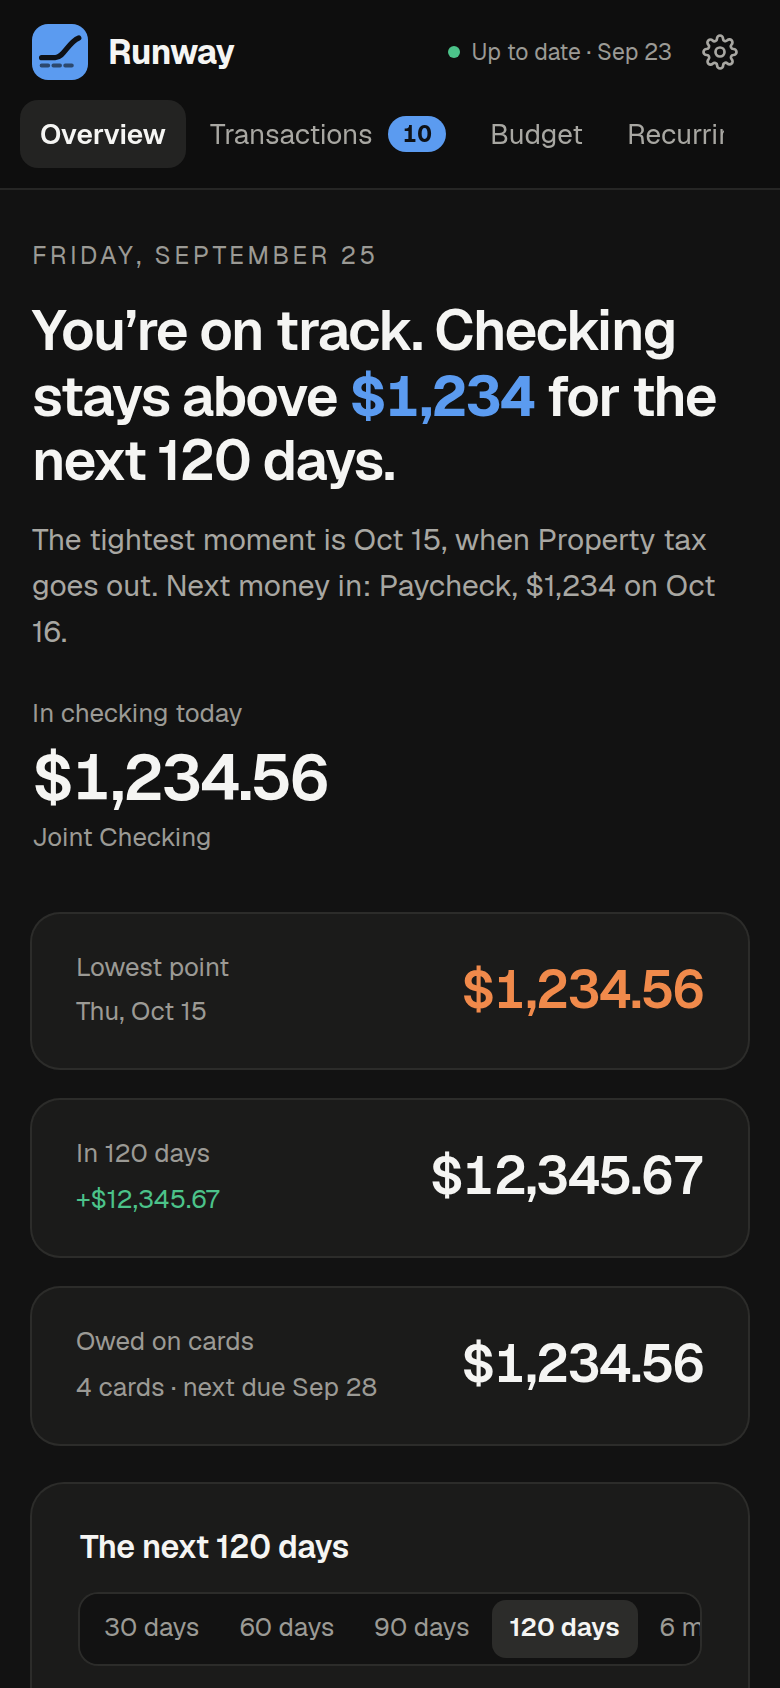
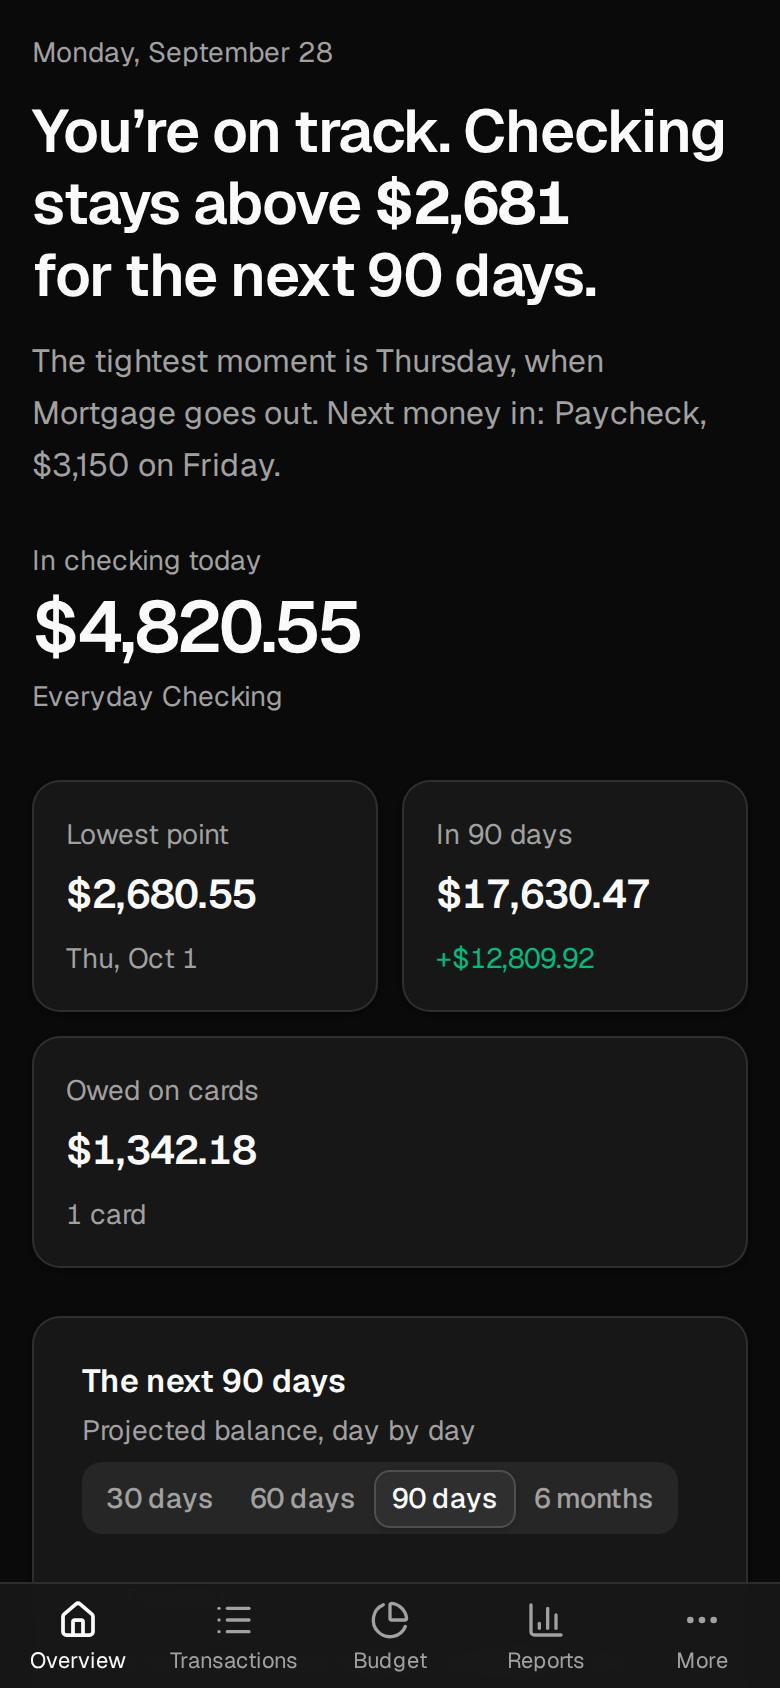
README: fresh screenshots of the current app
Claude-Session: https://claude.ai/code/session_01EsYSGy1d5EnqChoSiKzsUT

Taken from the made-up demo data (run.py demo), so no amounts need hiding: Overview, Transactions, Budget, Reports
and the phone layout. The Investments screenshot, which showed the old app, is gone; the demo has no investments.

diff --git a/README.md b/README.md
@@ -18,7 +18,7 @@
 </p>
 
 <p align="center">
-  <img src="docs/screenshots/overview.png" alt="Runway's Overview page: a headline saying checking stays above $2,084 for the next 120 days, summary tiles, and a projected balance chart" width="900">
+  <img src="docs/screenshots/overview.png" alt="Runway's Overview page: a headline saying checking stays above $2,681 for the next 90 days, summary tiles, and a projected balance chart" width="900">
 </p>
 
 ---
@@ -142,13 +142,15 @@ plain Python with a handful of well-known libraries.
 
 ## Screenshots
 
-| Investments | Where money went |
+| Transactions | Budget |
 |---|---|
-| <img src="docs/screenshots/investments.png" alt="Investments page with value and return charts" width="440"> | <img src="docs/screenshots/reports.png" alt="Reports page with a cash-flow Sankey chart" width="440"> |
+| <img src="docs/screenshots/transactions.png" alt="Transactions grouped by day, each with its merchant, account, category emoji and amount" width="440"> | <img src="docs/screenshots/budget.png" alt="Budget page with a colored bar per category and one budget rolling over" width="440"> |
 
-<p align="center"><img src="docs/screenshots/phone.png" alt="Runway's Overview on a phone" width="260"></p>
+| Where money went | On a phone |
+|---|---|
+| <img src="docs/screenshots/reports.png" alt="Reports page with a cash-flow Sankey chart" width="440"> | <img src="docs/screenshots/phone.png" alt="Runway's Overview on a phone, with the tab bar along the bottom" width="200"> |
 
-<sub>Screenshots use demo data; every dollar amount is a placeholder like $12,345.67.</sub>
+<sub>Screenshots use Runway's made-up demo data (<code>python run.py demo</code>); none of it is anyone's real money.</sub>
 
 ## Quick start
 
